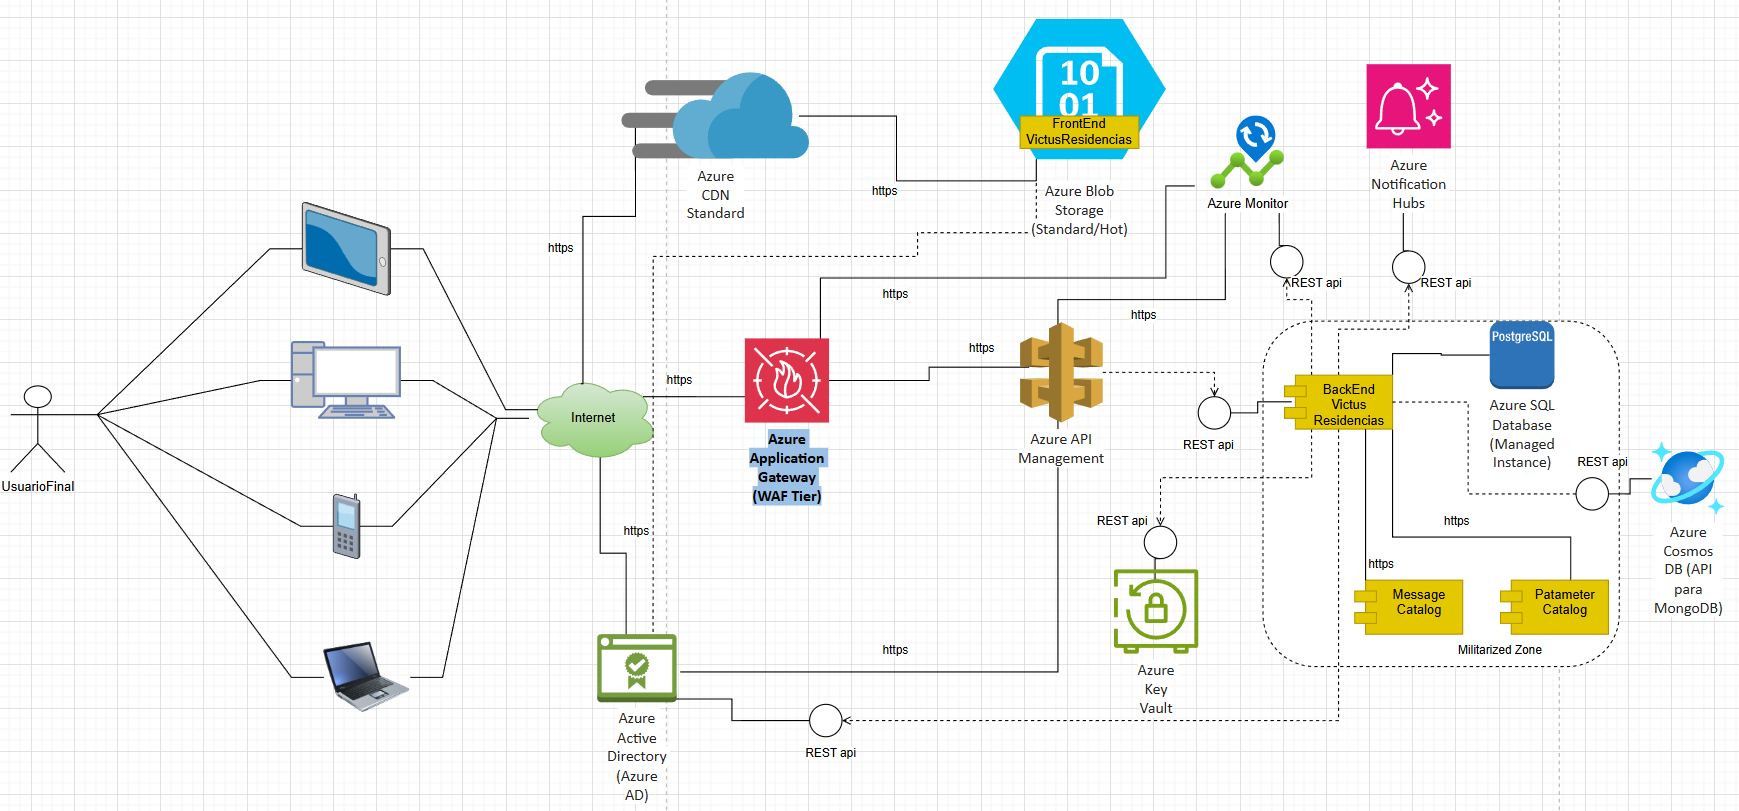
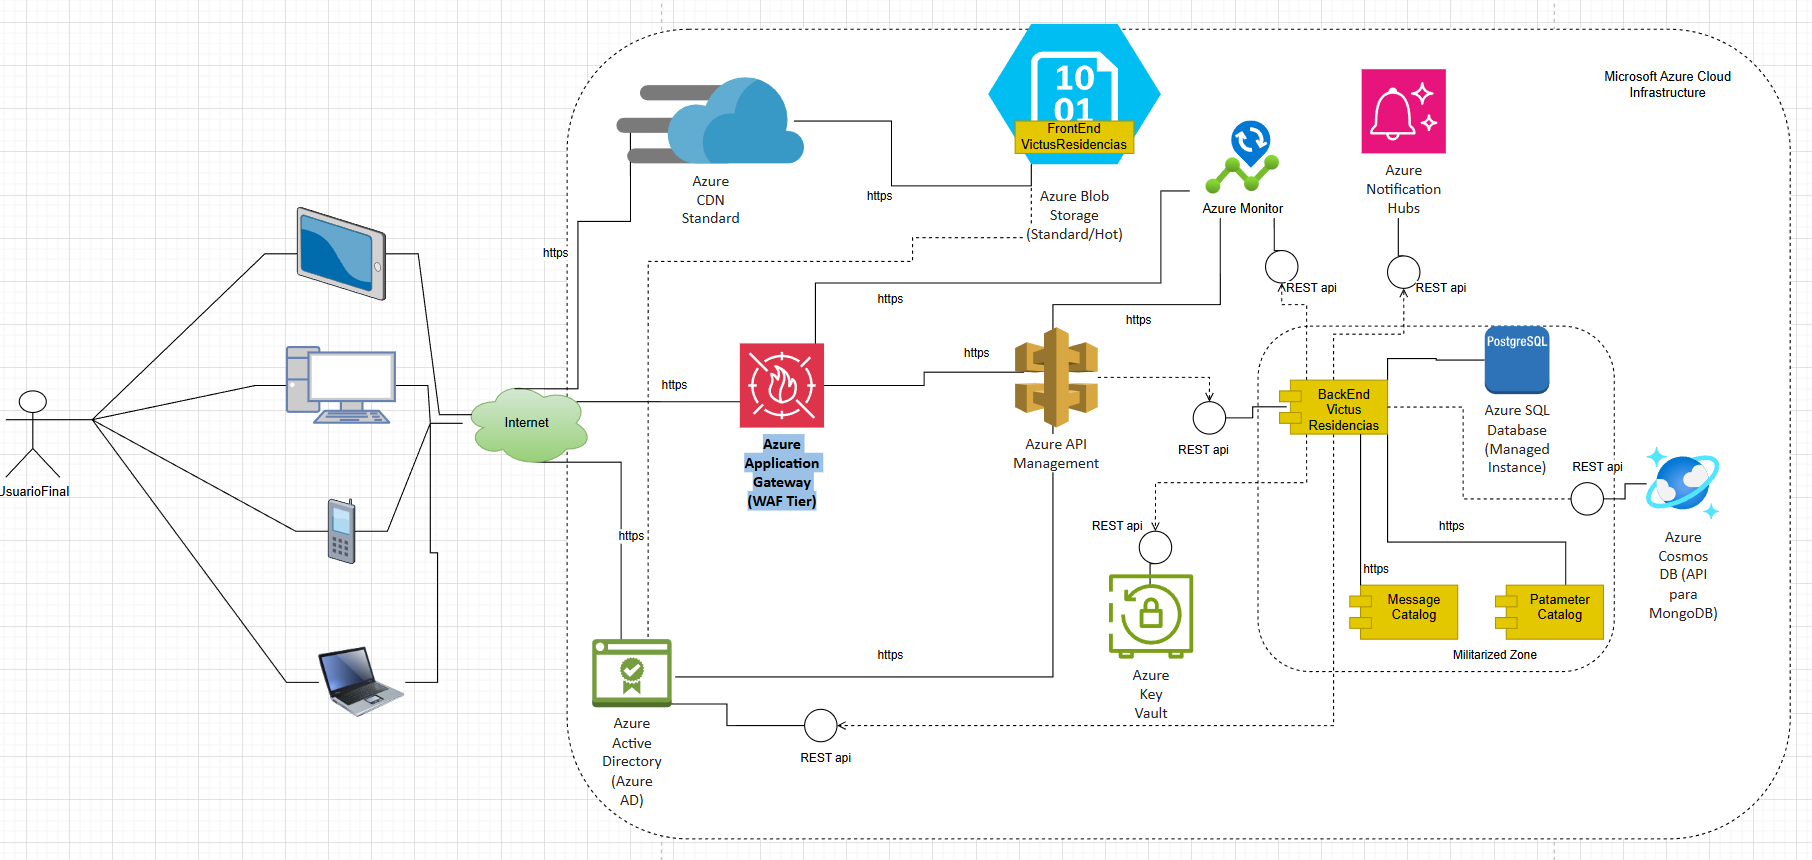
Corrección de puntos observados en la primera revisión
fix: corregir arquitectura mal modelada, modelado de paquetes, notaciones inconsistentes, integración Azure, estereotipos duplicados, falta de modelos de componentes y paquetes del Front, documentación de diseño de alto nivel, modelo de secuencia de arquitectura limpia, y forma de visualizar integrantes

diff --git a/README.md b/README.md
@@ -1,3 +1,12 @@
+## 👥 Integrantes del Proyecto
+
+| Nombre | Rol | Programa Académico | Institución |
+|---------|------|--------------------|--------------|
+| **Andrés Vélez** | Desarrollador Full Stack / Documentación Técnica | Ingeniería de Sistemas | Universidad Católica de Oriente |
+| **Juan Pablo Avendaño** | Desarrollador Frontend / UI y Diseño de Componentes | Ingeniería de Sistemas | Universidad Católica de Oriente |
+| **Tomás Gómez Cifuentes** | Desarrollador Backend / Integración con Spring Boot | Ingeniería de Sistemas | Universidad Católica de Oriente |
+
+---
 # 🏠 Victus Residencias  
 
 ![Logo Victus Residencias](https://raw.githubusercontent.com/andrias01/UcoChallengeVictus/master/imagenes/logo.png)
@@ -113,6 +122,8 @@ El modelo de paquetes organiza la aplicación siguiendo una arquitectura **Hexag
 - **Domain:** lógica de negocio
 - **Application:** casos de uso
 - **Infrastructure:** persistencia, API REST, seguridad
+
+En base del lenguaje de programación JAVA
 
 ---
 
@@ -243,6 +254,81 @@ El mapa identifica las percepciones, frustraciones y necesidades de los **reside
 - **Medida:** Tiempo total de parada < 15 min
 
 ---
+
+---
+
+## 🧱 Modelo de Paquetes – Frontend Victus Residencias
+
+![Modelo de Paquetes Frontend](./imagenes/paquetesFront.png)
+
+El modelo de paquetes del **Frontend Victus Residencias** representa la organización modular del sistema React, estructurado para mantener una **arquitectura limpia y escalable**.  
+Cada paquete agrupa elementos relacionados según su **rol funcional** en la interfaz de usuario y la lógica del cliente.
+
+### 📦 Descripción de los Paquetes
+
+| Paquete | Descripción | Relaciones principales |
+|----------|-------------|-------------------------|
+| **assets/** | Contiene íconos, imágenes y recursos gráficos utilizados por el sistema. | Importado por `components/` y `pages/`. |
+| **components/** | Contiene los componentes funcionales reutilizables que conforman la interfaz (ej. `Header`, `Dashboard`, `LoginAdmin`, `Property`). | Importa `contexts/`, `cssComponents/`, `loaders/`. |
+| **contexts/** | Define los contextos de React (`AdminContext`, `CommonZoneContext`, `PropertyContext`, `PorteroContext`) que gestionan estados globales y comunicación entre vistas. | Usado por `components/` y `pages/`. |
+| **cssComponents/** | Contiene las hojas de estilo de cada componente y los estilos globales de la aplicación. | Importado por `components/` y `loaders/`. |
+| **loaders/** | Contiene componentes visuales de carga (`LoadingCircle`, `LoadingText`) que proporcionan retroalimentación al usuario. | Usado por `components/` y `pages/`. |
+| **pages/** | Define las vistas principales del sistema (ej. `HomePage`, `LoginAdminPage`), donde se integran los componentes y se controlan las rutas del sistema. | Importa `components/`, `contexts/`, `assets/`. |
+| **resources/** | Contiene documentación interna, videos e imágenes de referencia del proyecto. | Sin dependencias directas en tiempo de ejecución. |
+
+---
+
+## 🧩 Modelo de Componentes – Frontend Victus Residencias
+
+![Modelo de Componentes Frontend](./imagenes/componentesFront.png)
+
+El modelo de componentes del **Frontend Victus Residencias** muestra la interacción entre las distintas piezas del sistema React y sus dependencias externas.  
+Cada componente cumple una función específica dentro del flujo **Vista → Lógica → Comunicación → Backend**.
+
+### ⚙ Descripción de los Componentes
+
+| Componente | Tipo | Función principal | Dependencias |
+|-------------|------|-------------------|---------------|
+| **React 19** | Framework base | Motor principal del frontend que gestiona el ciclo de vida de los componentes y el DOM virtual. | `vite`, `react-dom` |
+| **Vite** | Bundler | Herramienta de construcción y servidor de desarrollo ultrarrápido. | — |
+| **React Router DOM 7.4.x** | Librería | Controla la navegación SPA y la gestión de rutas (`/home`, `/login-admin`, etc.). | `react` |
+| **React Icons** | Librería | Provee íconos vectoriales reutilizables para la interfaz. | `react` |
+| **Componentes UI (propios)** | Propio | Elementos visuales del sistema (`Dashboard`, `Header`, `NavBurguer`, `AdminManagement`, etc.). | `contexts`, `cssComponents` |
+| **Contextos Globales** | Propio | Gestionan el estado global y la comunicación entre componentes React. | `react` |
+| **CSS Components / Tailwind** | Propio | Controla la apariencia, diseño y coherencia visual del frontend. | — |
+| **Loaders** | Propio | Proveen animaciones y retroalimentación visual durante procesos asíncronos. | `cssComponents` |
+| **API Backend (VictusResidencias)** | Externo | Realiza la comunicación con el backend Spring Boot mediante llamadas HTTP (fetch o axios). | `react` |
+| **GitHub Pages / Azure Static Web Apps** | Externo | Infraestructura de despliegue para el frontend React. | `vite build` |
+
+---
+
+## 🧠 Resumen Técnico
+
+| Categoría | Propósito | Tecnología |
+|------------|------------|-------------|
+| **Framework base** | Construcción modular de la interfaz de usuario | React 19 + Vite |
+| **Arquitectura de presentación** | Componentes funcionales, Context API y Hooks | React Context + Hooks |
+| **Diseño visual** | Estilos desacoplados y componentes reutilizables | Tailwind / CSS |
+| **Navegación** | Rutas SPA y manejo de estado entre vistas | React Router DOM |
+| **Comunicación backend** | Consumo de servicios REST del backend VictusResidencias | Fetch API / Axios |
+| **Infraestructura** | Despliegue estático y CI/CD | GitHub Pages / Azure Static Web Apps |
+
+---
+
+## 👥 Integrantes del Proyecto
+
+| Nombre | Rol | Programa Académico | Institución |
+|---------|------|--------------------|--------------|
+| **Andrés Vélez** | Desarrollador Full Stack / Documentación Técnica | Ingeniería de Sistemas | Universidad Católica de Oriente |
+| **Juan Pablo Avendaño** | Desarrollador Frontend / UI y Diseño de Componentes | Ingeniería de Sistemas | Universidad Católica de Oriente |
+| **Tomás Gómez Cifuentes** | Desarrollador Backend / Integración con Spring Boot | Ingeniería de Sistemas | Universidad Católica de Oriente |
+
+---
+
+📘 *Proyecto académico desarrollado como parte del curso de Ingenieria de Software 2 — Universidad Católica de Oriente (2025).*
+
+---
+
 
 ## 🧾 Autoría
 
